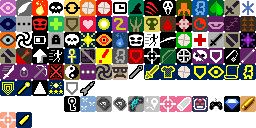
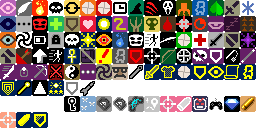
기적 아이콘 추가, 기도 기적 추가

Changed region(s): [[0.0625, 0.875, 0.1875, 1.0]]

diff --git a/core/src/main/java/com/shatteredpixel/shatteredpixeldungeon/actors/hero/miracles/Pray.java b/core/src/main/java/com/shatteredpixel/shatteredpixeldungeon/actors/hero/miracles/Pray.java
@@ -1,0 +1,65 @@
+package com.shatteredpixel.shatteredpixeldungeon.actors.hero.miracles;
+
+import com.shatteredpixel.shatteredpixeldungeon.Assets;
+import com.shatteredpixel.shatteredpixeldungeon.actors.Actor;
+import com.shatteredpixel.shatteredpixeldungeon.actors.buffs.ArtifactRecharge;
+import com.shatteredpixel.shatteredpixeldungeon.actors.buffs.Buff;
+import com.shatteredpixel.shatteredpixeldungeon.actors.buffs.FlavourBuff;
+import com.shatteredpixel.shatteredpixeldungeon.actors.buffs.Recharging;
+import com.shatteredpixel.shatteredpixeldungeon.actors.hero.Hero;
+import com.shatteredpixel.shatteredpixeldungeon.items.artifacts.CrossNecklace;
+import com.shatteredpixel.shatteredpixeldungeon.scenes.GameScene;
+import com.shatteredpixel.shatteredpixeldungeon.ui.HeroIcon;
+import com.watabou.noosa.audio.Sample;
+
+public class Pray extends MariMiracle {
+
+    public static final Pray INSTANCE = new Pray();
+
+    @Override
+    public float chargeUse(Hero hero) {
+        return 0;
+    }
+
+    @Override
+    public int icon() {
+        return HeroIcon.PRAY;
+    }
+
+    @Override
+    public void onCast(CrossNecklace cross, Hero hero) {
+        hero.sprite.operate(hero.pos);
+        GameScene.flash(0x88000000, false);
+        Sample.INSTANCE.play(Assets.Sounds.READ);
+
+        //we process this as 5x wait actions instead of one 5 tick action to prevent
+        // effects like time freeze from eating the whole action duration
+        for (int i = 0; i < 5; i++) hero.spendConstant(Actor.TICK);
+
+        Buff.affect(hero, PrayResistance.class, hero.cooldown());
+        Actor.addDelayed(new Actor() {
+
+            {
+                actPriority = VFX_PRIO;
+            }
+
+            @Override
+            protected boolean act() {
+                Buff.affect(hero, Recharging.class, 6f);
+                Buff.affect(hero, ArtifactRecharge.class).extend(6f).ignoreHornOfPlenty = false;
+                Actor.remove(this);
+                onMiracleCast(cross, hero);
+                return true;
+            }
+        }, hero.cooldown()-1);
+
+        hero.next();
+        hero.busy();
+    }
+
+    public static class PrayResistance extends FlavourBuff {
+        {
+            actPriority = HERO_PRIO+1; //ends just before the hero acts
+        }
+    };
+}

diff --git a/core/src/main/java/com/shatteredpixel/shatteredpixeldungeon/actors/hero/miracles/Protection.java b/core/src/main/java/com/shatteredpixel/shatteredpixeldungeon/actors/hero/miracles/Protection.java
@@ -1,13 +1,20 @@
 package com.shatteredpixel.shatteredpixeldungeon.actors.hero.miracles;
 
+import com.shatteredpixel.shatteredpixeldungeon.Assets;
+import com.shatteredpixel.shatteredpixeldungeon.actors.Actor;
 import com.shatteredpixel.shatteredpixeldungeon.actors.buffs.Buff;
 import com.shatteredpixel.shatteredpixeldungeon.actors.buffs.FlavourBuff;
 import com.shatteredpixel.shatteredpixeldungeon.actors.hero.Hero;
 import com.shatteredpixel.shatteredpixeldungeon.actors.hero.HeroSubClass;
 import com.shatteredpixel.shatteredpixeldungeon.items.artifacts.CrossNecklace;
 import com.shatteredpixel.shatteredpixeldungeon.ui.BuffIndicator;
+import com.shatteredpixel.shatteredpixeldungeon.ui.HeroIcon;
+import com.watabou.noosa.audio.Sample;
+import com.watabou.utils.Callback;
 
 public class Protection extends MariMiracle {
+
+    public static final Protection INSTANCE = new Protection();
 
     @Override
     public float chargeUse(Hero hero) {
@@ -15,8 +22,24 @@ public class Protection extends MariMiracle {
     }
 
     @Override
+    public int icon() {
+        return HeroIcon.PROTECTION;
+    }
+
+    @Override
     public void onCast(CrossNecklace cross, Hero hero) {
         Buff.affect(hero, ProtectionBuff.class, ProtectionBuff.DURATION);
+        Sample.INSTANCE.play(Assets.Sounds.READ);
+        hero.busy();
+        hero.sprite.operate(hero.pos, new Callback() {
+            @Override
+            public void call() {
+                hero.sprite.idle();
+                hero.next();
+            }
+        });
+
+        onMiracleCast(cross, hero);
     }
 
     public static class ProtectionBuff extends FlavourBuff {

diff --git a/core/src/main/java/com/shatteredpixel/shatteredpixeldungeon/actors/hero/Hero.java b/core/src/main/java/com/shatteredpixel/shatteredpixeldungeon/actors/hero/Hero.java
@@ -90,6 +90,7 @@ import com.shatteredpixel.shatteredpixeldungeon.actors.hero.abilities.warrior.En
 import com.shatteredpixel.shatteredpixeldungeon.actors.hero.console.fantasy.Thunder;
 import com.shatteredpixel.shatteredpixeldungeon.actors.hero.miracles.LightBullet;
 import com.shatteredpixel.shatteredpixeldungeon.actors.hero.miracles.MariMiracle;
+import com.shatteredpixel.shatteredpixeldungeon.actors.hero.miracles.Pray;
 import com.shatteredpixel.shatteredpixeldungeon.actors.hero.miracles.Protection;
 import com.shatteredpixel.shatteredpixeldungeon.actors.hero.spells.BodyForm;
 import com.shatteredpixel.shatteredpixeldungeon.actors.hero.spells.HallowedGround;
@@ -1889,6 +1890,10 @@ public class Hero extends Char {
 			}
 			//and to monk meditate damage reduction
 			if (buff(MonkEnergy.MonkAbility.Meditate.MeditateResistance.class) != null){
+				damage *= 0.2f;
+			}
+			//mari pray damage reduction
+			if (buff(Pray.PrayResistance.class) != null){
 				damage *= 0.2f;
 			}
 		}

diff --git a/core/src/main/java/com/shatteredpixel/shatteredpixeldungeon/actors/Char.java b/core/src/main/java/com/shatteredpixel/shatteredpixeldungeon/actors/Char.java
@@ -92,6 +92,7 @@ import com.shatteredpixel.shatteredpixeldungeon.actors.hero.abilities.rogue.Deat
 import com.shatteredpixel.shatteredpixeldungeon.actors.hero.abilities.shiroko.PenetrationShot;
 import com.shatteredpixel.shatteredpixeldungeon.actors.hero.abilities.warrior.Endure;
 import com.shatteredpixel.shatteredpixeldungeon.actors.hero.miracles.MariMiracle;
+import com.shatteredpixel.shatteredpixeldungeon.actors.hero.miracles.Pray;
 import com.shatteredpixel.shatteredpixeldungeon.actors.hero.spells.AuraOfProtection;
 import com.shatteredpixel.shatteredpixeldungeon.actors.hero.spells.BeamingRay;
 import com.shatteredpixel.shatteredpixeldungeon.actors.hero.spells.GuidingLight;
@@ -518,6 +519,10 @@ public abstract class Char extends Actor {
 			}
 
 			if (enemy.buff(MonkEnergy.MonkAbility.Meditate.MeditateResistance.class) != null){
+				dmg *= 0.2f;
+			}
+
+			if (enemy.buff(Pray.PrayResistance.class) != null){
 				dmg *= 0.2f;
 			}
 

diff --git a/core/src/main/java/com/shatteredpixel/shatteredpixeldungeon/actors/hero/miracles/MariMiracle.java b/core/src/main/java/com/shatteredpixel/shatteredpixeldungeon/actors/hero/miracles/MariMiracle.java
@@ -73,6 +73,8 @@ public abstract class MariMiracle {
 
         if (tier == 1) {
             miracles.add(LightBullet.INSTANCE);
+            miracles.add(Protection.INSTANCE);
+            miracles.add(Pray.INSTANCE);
 
         } else if (tier == 2) {
 
@@ -91,10 +93,13 @@ public abstract class MariMiracle {
     public static ArrayList<MariMiracle> getAllMiracles() {
         ArrayList<MariMiracle> miracles = new ArrayList<>();
         miracles.add(LightBullet.INSTANCE);
+        miracles.add(Protection.INSTANCE);
+        miracles.add(Pray.INSTANCE);
 
         return miracles;
     }
 
+    //this is in the miracle class but it is used for Mari's passive ability
     public static class PunishmentThunder {
 
         public static int thunderDamage(Hero hero) {

diff --git a/core/src/main/java/com/shatteredpixel/shatteredpixeldungeon/ui/HeroIcon.java b/core/src/main/java/com/shatteredpixel/shatteredpixeldungeon/ui/HeroIcon.java
@@ -233,6 +233,8 @@ public class HeroIcon extends Image {
 
 	//mari miracles
 	public static final int LIGHT_BULLET	= 128 + 136;
+	public static final int PROTECTION		= 128 + 137;
+	public static final int PRAY			= 128 + 138;
 
 
 	public HeroIcon(HeroSubClass subCls){
